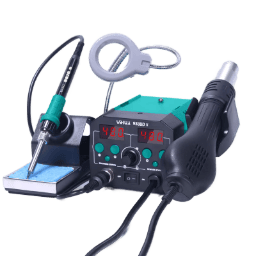
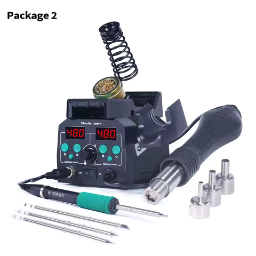
replaced soldering station

diff --git a/_wishlist_items/electronics-yihua-938bd-ii.md b/_wishlist_items/electronics-yihua-938bd-ii.md
@@ -1,8 +1,8 @@
 ---
 category: electronics
-name: "YIHUA 938BD-II 220v forrasztóállomás"
-link: "https://www.aliexpress.com/item/1005006854295710.html"
-price: "30000 Ft"
+name: "Silverflo 938BD-III forrasztóállomás"
+link: "https://www.aliexpress.com/item/1005006292891481.html"
+price: "28000 Ft"
 has_image: true
 tags: 
     - name: "aliexpress"
